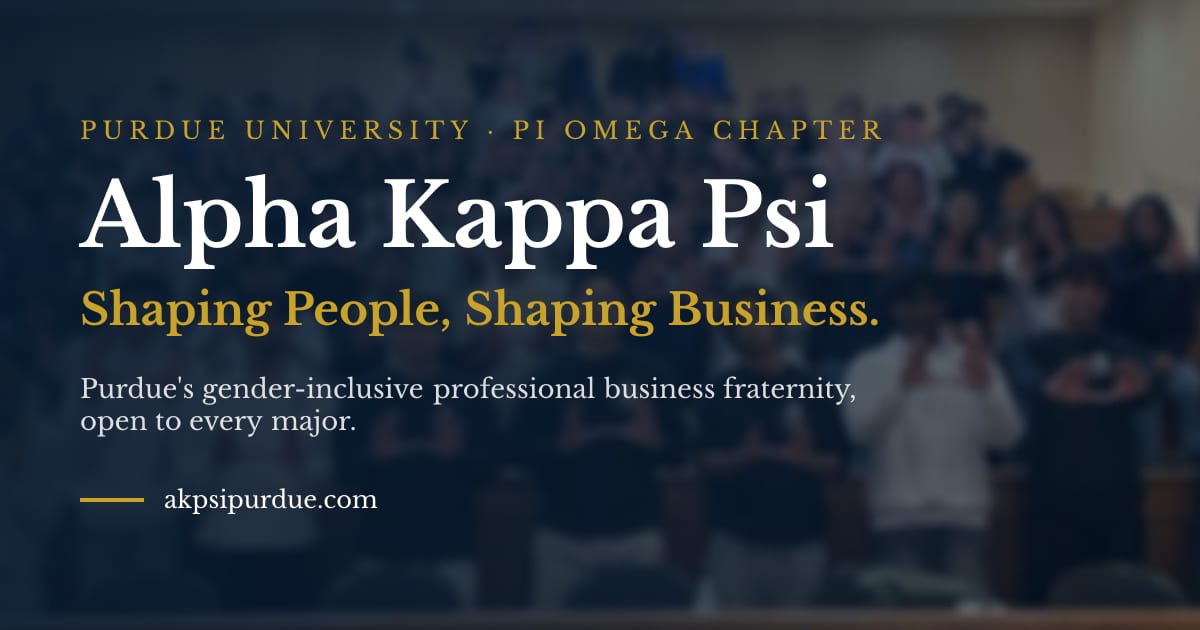
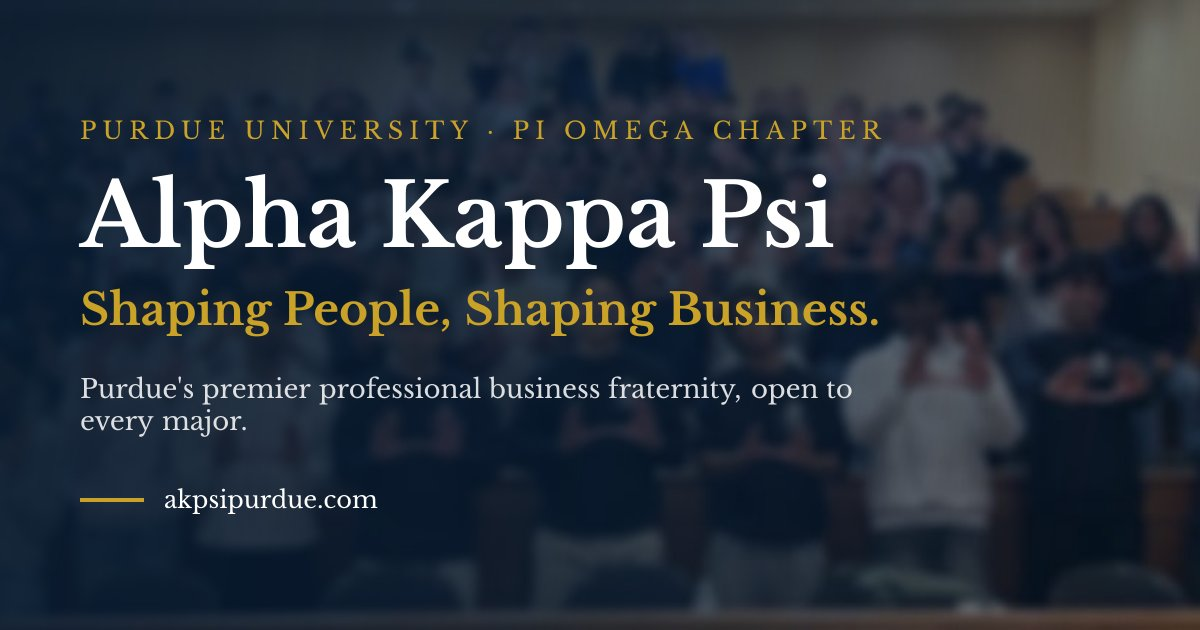
Describe the chapter as Purdue's premier professional business fraternity
Home page intro, About mission, search description and the link-preview
image.

Claude-Session: https://claude.ai/code/session_01A1qEYHN1QWvf8JndjLajUP

Changed region(s): [[0.0617, 0.6032, 0.7092, 0.6937], [0.1542, 0.7841, 0.185, 0.8143]]

diff --git a/scripts/og/opengraph-image.tsx b/scripts/og/opengraph-image.tsx
@@ -50,7 +50,7 @@ export default async function Image() {
           </div>
           <div style={{ fontSize: 44, fontWeight: 700, color: "#c9a227", marginTop: 20 }}>Shaping People, Shaping Business.</div>
           <div style={{ fontSize: 26, color: "rgba(255,255,255,0.85)", marginTop: 36, maxWidth: 820 }}>
-            Purdue&apos;s gender-inclusive professional business fraternity, open to every major.
+            Purdue&apos;s premier professional business fraternity, open to every major.
           </div>
           <div style={{ display: "flex", alignItems: "center", marginTop: 48 }}>
             <div style={{ width: 64, height: 4, background: "#c9a227" }} />

diff --git a/src/app/page.tsx b/src/app/page.tsx
@@ -16,7 +16,7 @@ export default function HomePage() {
         eyebrow={`${site.school} · ${site.chapter}`}
         lead="Shaping People,"
         emphasis="Shaping Business."
-        intro="Purdue's gender-inclusive professional business fraternity, open to every major."
+        intro="Purdue's premier professional business fraternity, open to every major."
         primary={{ href: "/rush", label: rush.isOpen ? `Rush ${rush.term}` : "Rush info" }}
         secondary={{ href: "/portal", label: "Brother portal" }}
       />

diff --git a/src/app/layout.tsx b/src/app/layout.tsx
@@ -16,7 +16,7 @@ export const metadata: Metadata = {
     template: `%s | AKPsi Purdue`,
   },
   description:
-    "Alpha Kappa Psi, Pi Omega Chapter: Purdue University's gender-inclusive professional business fraternity, open to all majors.",
+    "Alpha Kappa Psi, Pi Omega Chapter: Purdue University's premier professional business fraternity, open to all majors.",
   // Link previews: the image comes from src/app/opengraph-image.tsx.
   openGraph: {
     siteName: "AKPsi Purdue",
